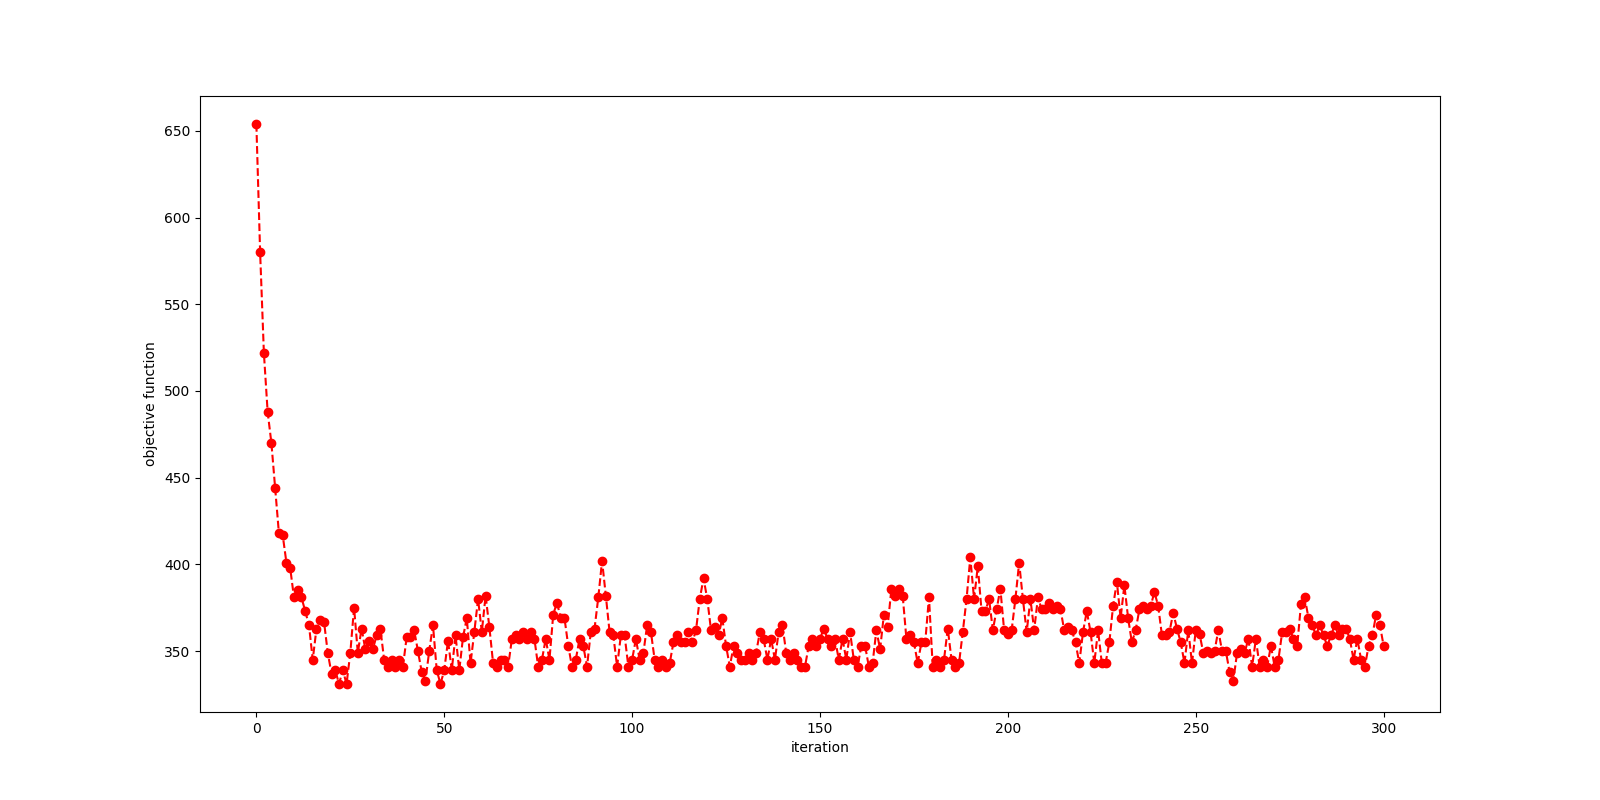
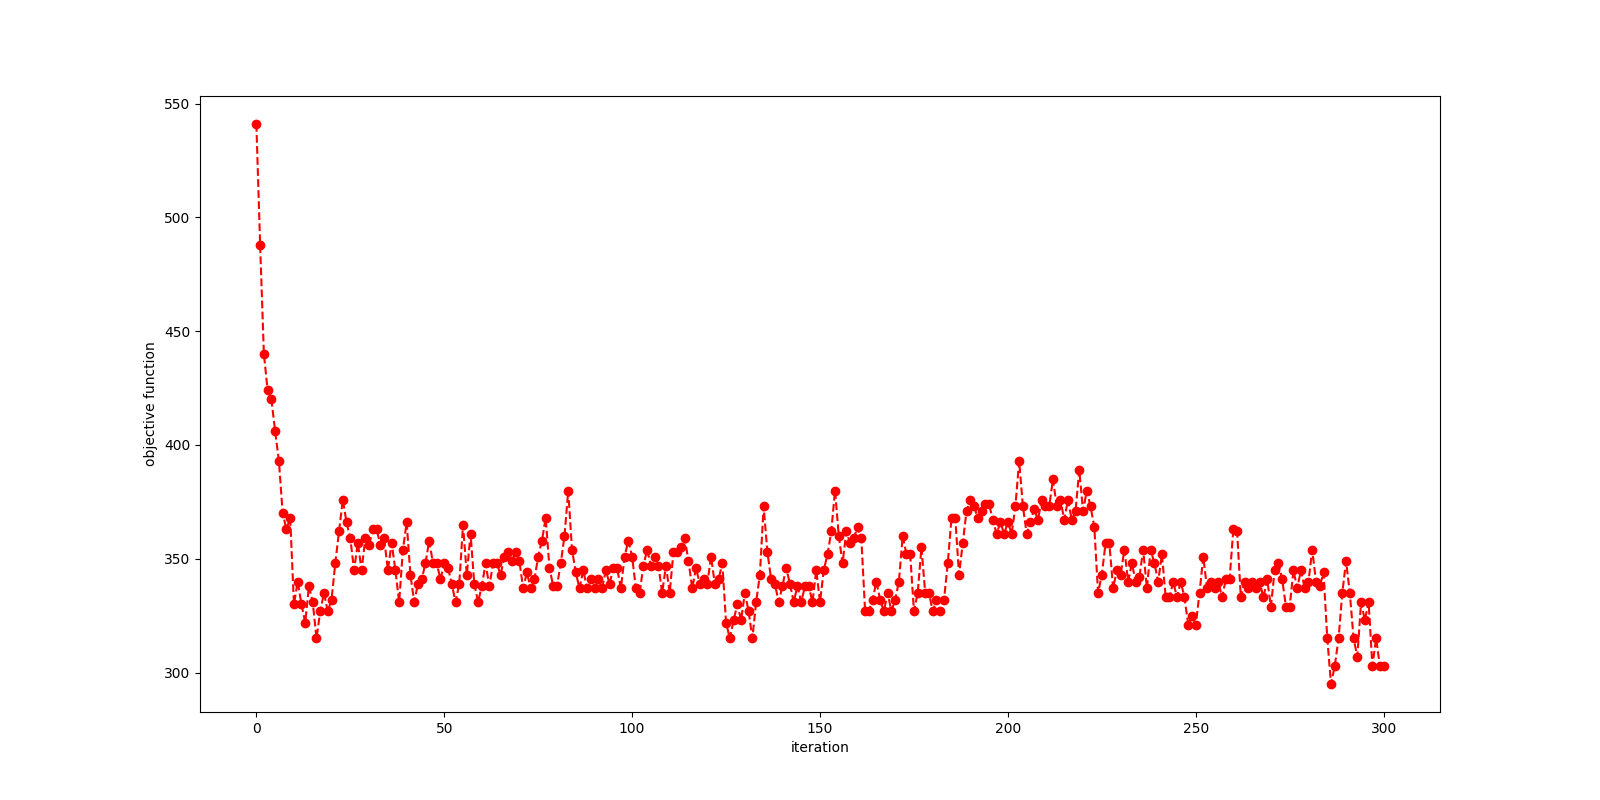
Add analytics

diff --git a/lab5/main.py b/lab5/main.py
@@ -4,30 +4,53 @@ from utilities import read_from_resources, plot_matrix, plot_solutions
 
 DEBUG = False
 
-if __name__ == "__main__":
-    weights = read_from_resources("p01.15.291.tsp")
-    # weights = read_from_resources("gr17.2085.tsp")
-    print(weights)
 
+def run_algorithm():
     tabu_search_algorithm = TabuSearchAlgorithm(
         weights=weights,
         tabu_queue_size=5,
         tabu_memory_strategy=MemoryStrategy.SAVE_IDS,
-        intensification_threshold_value=10,
+        intensification_threshold_value=10,  # number of times, four top cities
         diversification_threshold_value=15,
         diversification_pick_number=5,
         max_iterations=300,
     )
     algorithm_result, plot_data = tabu_search_algorithm.objective_function()
+    return tabu_search_algorithm, algorithm_result, plot_data
+
+
+def run_multiple_items():
+    i = 0
+    smallest_values = []
+    smallest_value = 291
+    max_iterations = 10
+    while i < max_iterations:
+        tabu_search_algorithm, algorithm_result, plot_data = run_algorithm()
+        smallest_values.append(algorithm_result.value)
+        print("Algorithm result:", algorithm_result)
+        i += 1
+    smallest_value_frequency = sum([1 for value in smallest_values if value == smallest_value]) / max_iterations
+    print("Smallest value frequency", smallest_value_frequency*100, "%")
+
+
+def run_algorithm_with_analytics():
+    tabu_search_algorithm, algorithm_result, plot_data = run_algorithm()
 
     intensification = tabu_search_algorithm.middle_term_memory
-    print("intensification", intensification)
-    plot_matrix(file_name="intensification.png", matrix=intensification.matrix)
+    # print("intensification", intensification)
+    plot_matrix(file_name="Intensification", matrix=intensification.matrix)
 
     diversification = tabu_search_algorithm.long_term_memory
-    print("diversification", diversification)
-    plot_matrix(file_name="diversification.png", matrix=diversification.matrix)
+    # print("diversification", diversification)
+    plot_matrix(file_name="Diversification", matrix=diversification.matrix)
 
     print("\nAlgorithm result:", algorithm_result)
 
     plot_solutions(plot_data)
+
+
+if __name__ == "__main__":
+    weights = read_from_resources("p01.15.291.tsp")
+    # weights = read_from_resources("gr17.2085.tsp")
+    print(weights)
+    run_multiple_items()

diff --git a/lab5/tabu_search_algorithm.py b/lab5/tabu_search_algorithm.py
@@ -44,18 +44,18 @@ class TabuSearchAlgorithm:
         current_solution = self.best_solution
         current_iteration = 0
         while self.stopping_criteria.is_satisfied(current_iteration):
-            print("\niteration:", current_iteration, "\tsolution:", current_solution)
+            # print("iteration:", current_iteration, "\tsolution:", current_solution)
             best_admissible_solution = self.find_best_neighbour(current_solution=current_solution)
 
             if self.aspiration_criteria.is_satisfied(best_admissible_solution, self.best_solution):
                 self.best_solution = best_admissible_solution
-                self.long_term_memory.unsuccess_iterations = 0
+                self.long_term_memory.unsuccess_iterations = current_iteration/100
             else:
                 # print("Not improving iteration: ", self.long_term_memory.unsuccess_iterations)
                 self.long_term_memory.unsuccess_iterations += 1
 
             self.short_term_memory.add(solution=best_admissible_solution)
-            print('TabuQueue: ', self.short_term_memory.queue)
+            # print('TabuQueue: ', self.short_term_memory.queue)
             current_solution = best_admissible_solution
             self.middle_term_memory.add(solution=self.best_solution)
             # print("Frozen values: ", self.middle_term_memory.frozen_values)

diff --git a/lab5/solutions/solutions.py b/lab5/solutions/solutions.py
@@ -72,11 +72,18 @@ class TravelerSalesmanProblemSolution(IntegerRepresentation):
         swap_last_pos = [i for i in current_encoding if i == swap_first_value]
         if len(swap_last_pos)>0:
             swap_last_pos = min(swap_last_pos)
+        else:
+            swap_last_pos = 0
         if swap_last_value is not swap_first_value:
             current_encoding[swap_first_pos] = swap_first_value
             current_encoding[swap_last_pos] = swap_last_value
-        current_solution = self.__class__(weights=self.weights, encoding=current_encoding, swap=(swap_first_pos, swap_first_value))
-        return current_solution
+            encoding_size = len(current_encoding)
+            unique_ones = len(set(current_encoding))
+            # print("encoding_size", encoding_size, "unique_ones", unique_ones)
+            if encoding_size == unique_ones:
+                current_solution = self.__class__(weights=self.weights, encoding=current_encoding, swap=(swap_first_pos, swap_first_value))
+                return current_solution
+        return None
 
     def get_size(self) -> int:
         return len(self.encoding)

diff --git a/lab5/utilities.py b/lab5/utilities.py
@@ -9,8 +9,18 @@ def read_from_resources(file_name: str) -> np.array:
 
 def plot_matrix(file_name, matrix):
     # matrix = matrix.astype(float)
-    plt.imshow(matrix, cmap='viridis', interpolation='nearest')
-    plt.savefig("results/" + file_name)
+    fig, ax = plt.subplots()
+    ax.imshow(matrix, cmap='viridis', interpolation='nearest')
+    # Loop over data dimensions and create text annotations.
+    for i in range(0, len(matrix)):
+        for j in range(0, len(matrix)):
+            # print(i, j)
+            text = ax.text(i, j, matrix[i] [j],
+                           ha="center", va="center", color="w")
+    ax.set_title(file_name)
+    fig.tight_layout()
+    # plt.show()
+    plt.savefig("results/" + file_name +".png")
 
 
 def plot_solutions(solution_list):

diff --git a/lab5/strategies/neighbourhood_strategies.py b/lab5/strategies/neighbourhood_strategies.py
@@ -51,7 +51,8 @@ class NeighbourhoodGenerationStrategy(Enum):
             # print(should_pick_values)
             for swap_first_position, swap_first in should_pick_values:
                 current_neighbour = initial_solution.set_value(swap_first_position, swap_first)
-                neighbour_solutions.append(current_neighbour)
+                if current_neighbour is not None:
+                    neighbour_solutions.append(current_neighbour)
         return neighbour_solutions
 
     def generate_neighbours(self, initial_solution, frozen_values, should_pick_values=None):

diff --git a/lab5/strategies/diversification_strategies.py b/lab5/strategies/diversification_strategies.py
@@ -19,7 +19,7 @@ class DiversificationStrategy(Enum):
         smallest_dict = deepcopy(hidden_list)
         smallest_dict = self.pick_all_zeros(smallest_dict)
         smallest_dict = dict(sorted(smallest_dict.items(), key=lambda item: item[1][1])[:pick_number])
-        print("Picked values by the diversification run:", smallest_dict)
+        # print("Picked values by the diversification run:", smallest_dict)
         return deepcopy(smallest_dict)
 
     def pick_all_zeros(self, dict):

diff --git a/lab5/memory_data/long_term_memory.py b/lab5/memory_data/long_term_memory.py
@@ -43,5 +43,5 @@ class Diversification(Memory):
         smallest_dict = deepcopy(self.hidden_list)
         smallest_dict = self.pick_all_zeros(smallest_dict)
         smallest_dict = dict(sorted(smallest_dict.items(), key=lambda item: item[1][1])[:self.pick_number])
-        print("Picked values by the diversification run:", smallest_dict)
+        # print("Picked values by the diversification run:", smallest_dict)
         self.should_pick_values = deepcopy(smallest_dict)

diff --git a/lab5/solutions/locators.py b/lab5/solutions/locators.py
@@ -32,5 +32,7 @@ class SolutionNeighbourLocator:
 
     def find_best_neighbour(self, tabu_list):
         candidate_solution_list = deepcopy(self.candidate_solutions)
-        best_admissible_solution = min(candidate_solution_list)
-        return best_admissible_solution
+        if len(candidate_solution_list) > 0:
+            best_admissible_solution = min(candidate_solution_list)
+            return best_admissible_solution
+        return None
